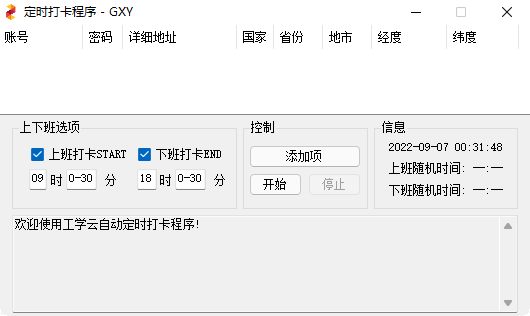
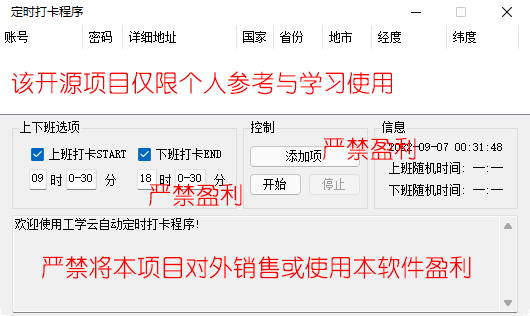
Readme Update

diff --git a/README.md b/README.md
@@ -7,6 +7,7 @@
 - [依赖](#yl)
 - [参考](#ck)
 - [常见问题](#cjwt)
+- [注意事项](#zysx)
 
 <a name="gn"></a>
 ## 功能
@@ -57,7 +58,14 @@
 
 3. `为什么会产生三个txt文本`
 - UserData.txt -> 用于保存用户信息
-- UserData_Logs -> 用于保存日志信息
+- UserData_Logs.txt -> 用于保存日志信息
 - UserData_LoginCache.txt -> 用于保存用户登录信息
+
+<a name="zysx"></a>
+## 注意事项
+
+1. **严禁将本项目对外销售或盈利**
+2. **严禁利用本软件进行代挂号盈利或其他盈利方式**
+3. **该项目仅供个人使用者参考与学习或使用**
 
 ---
